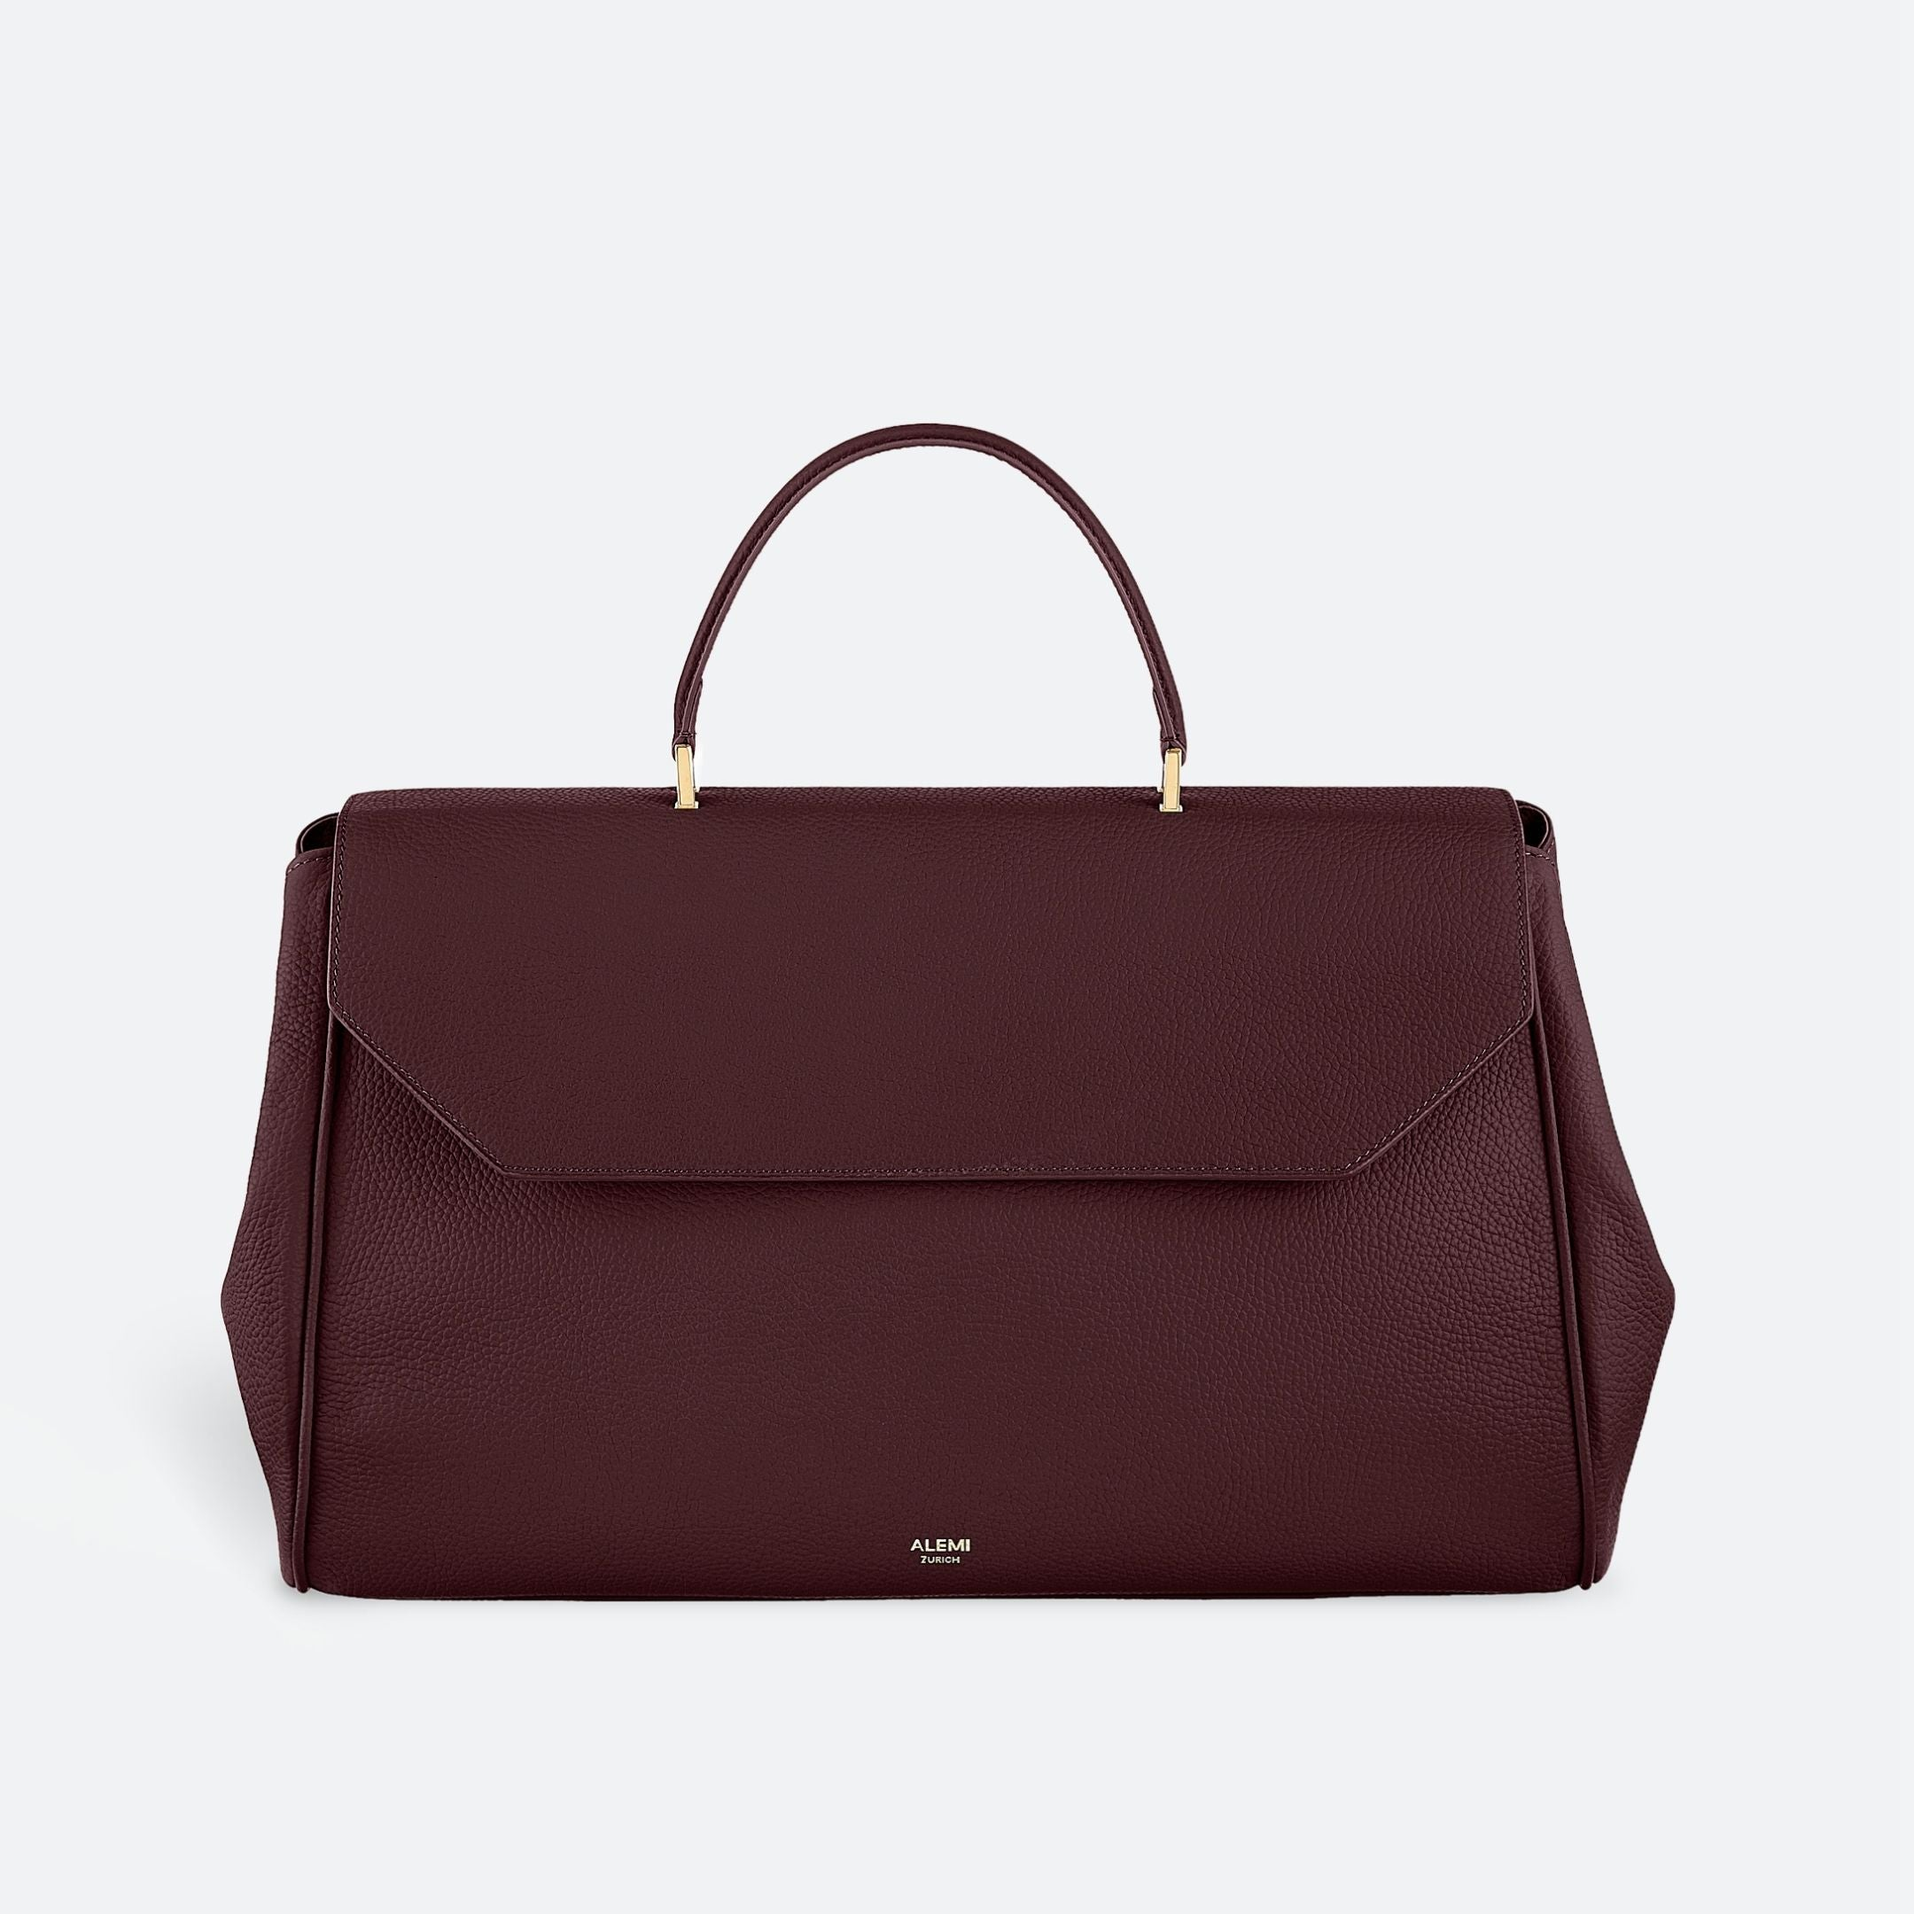
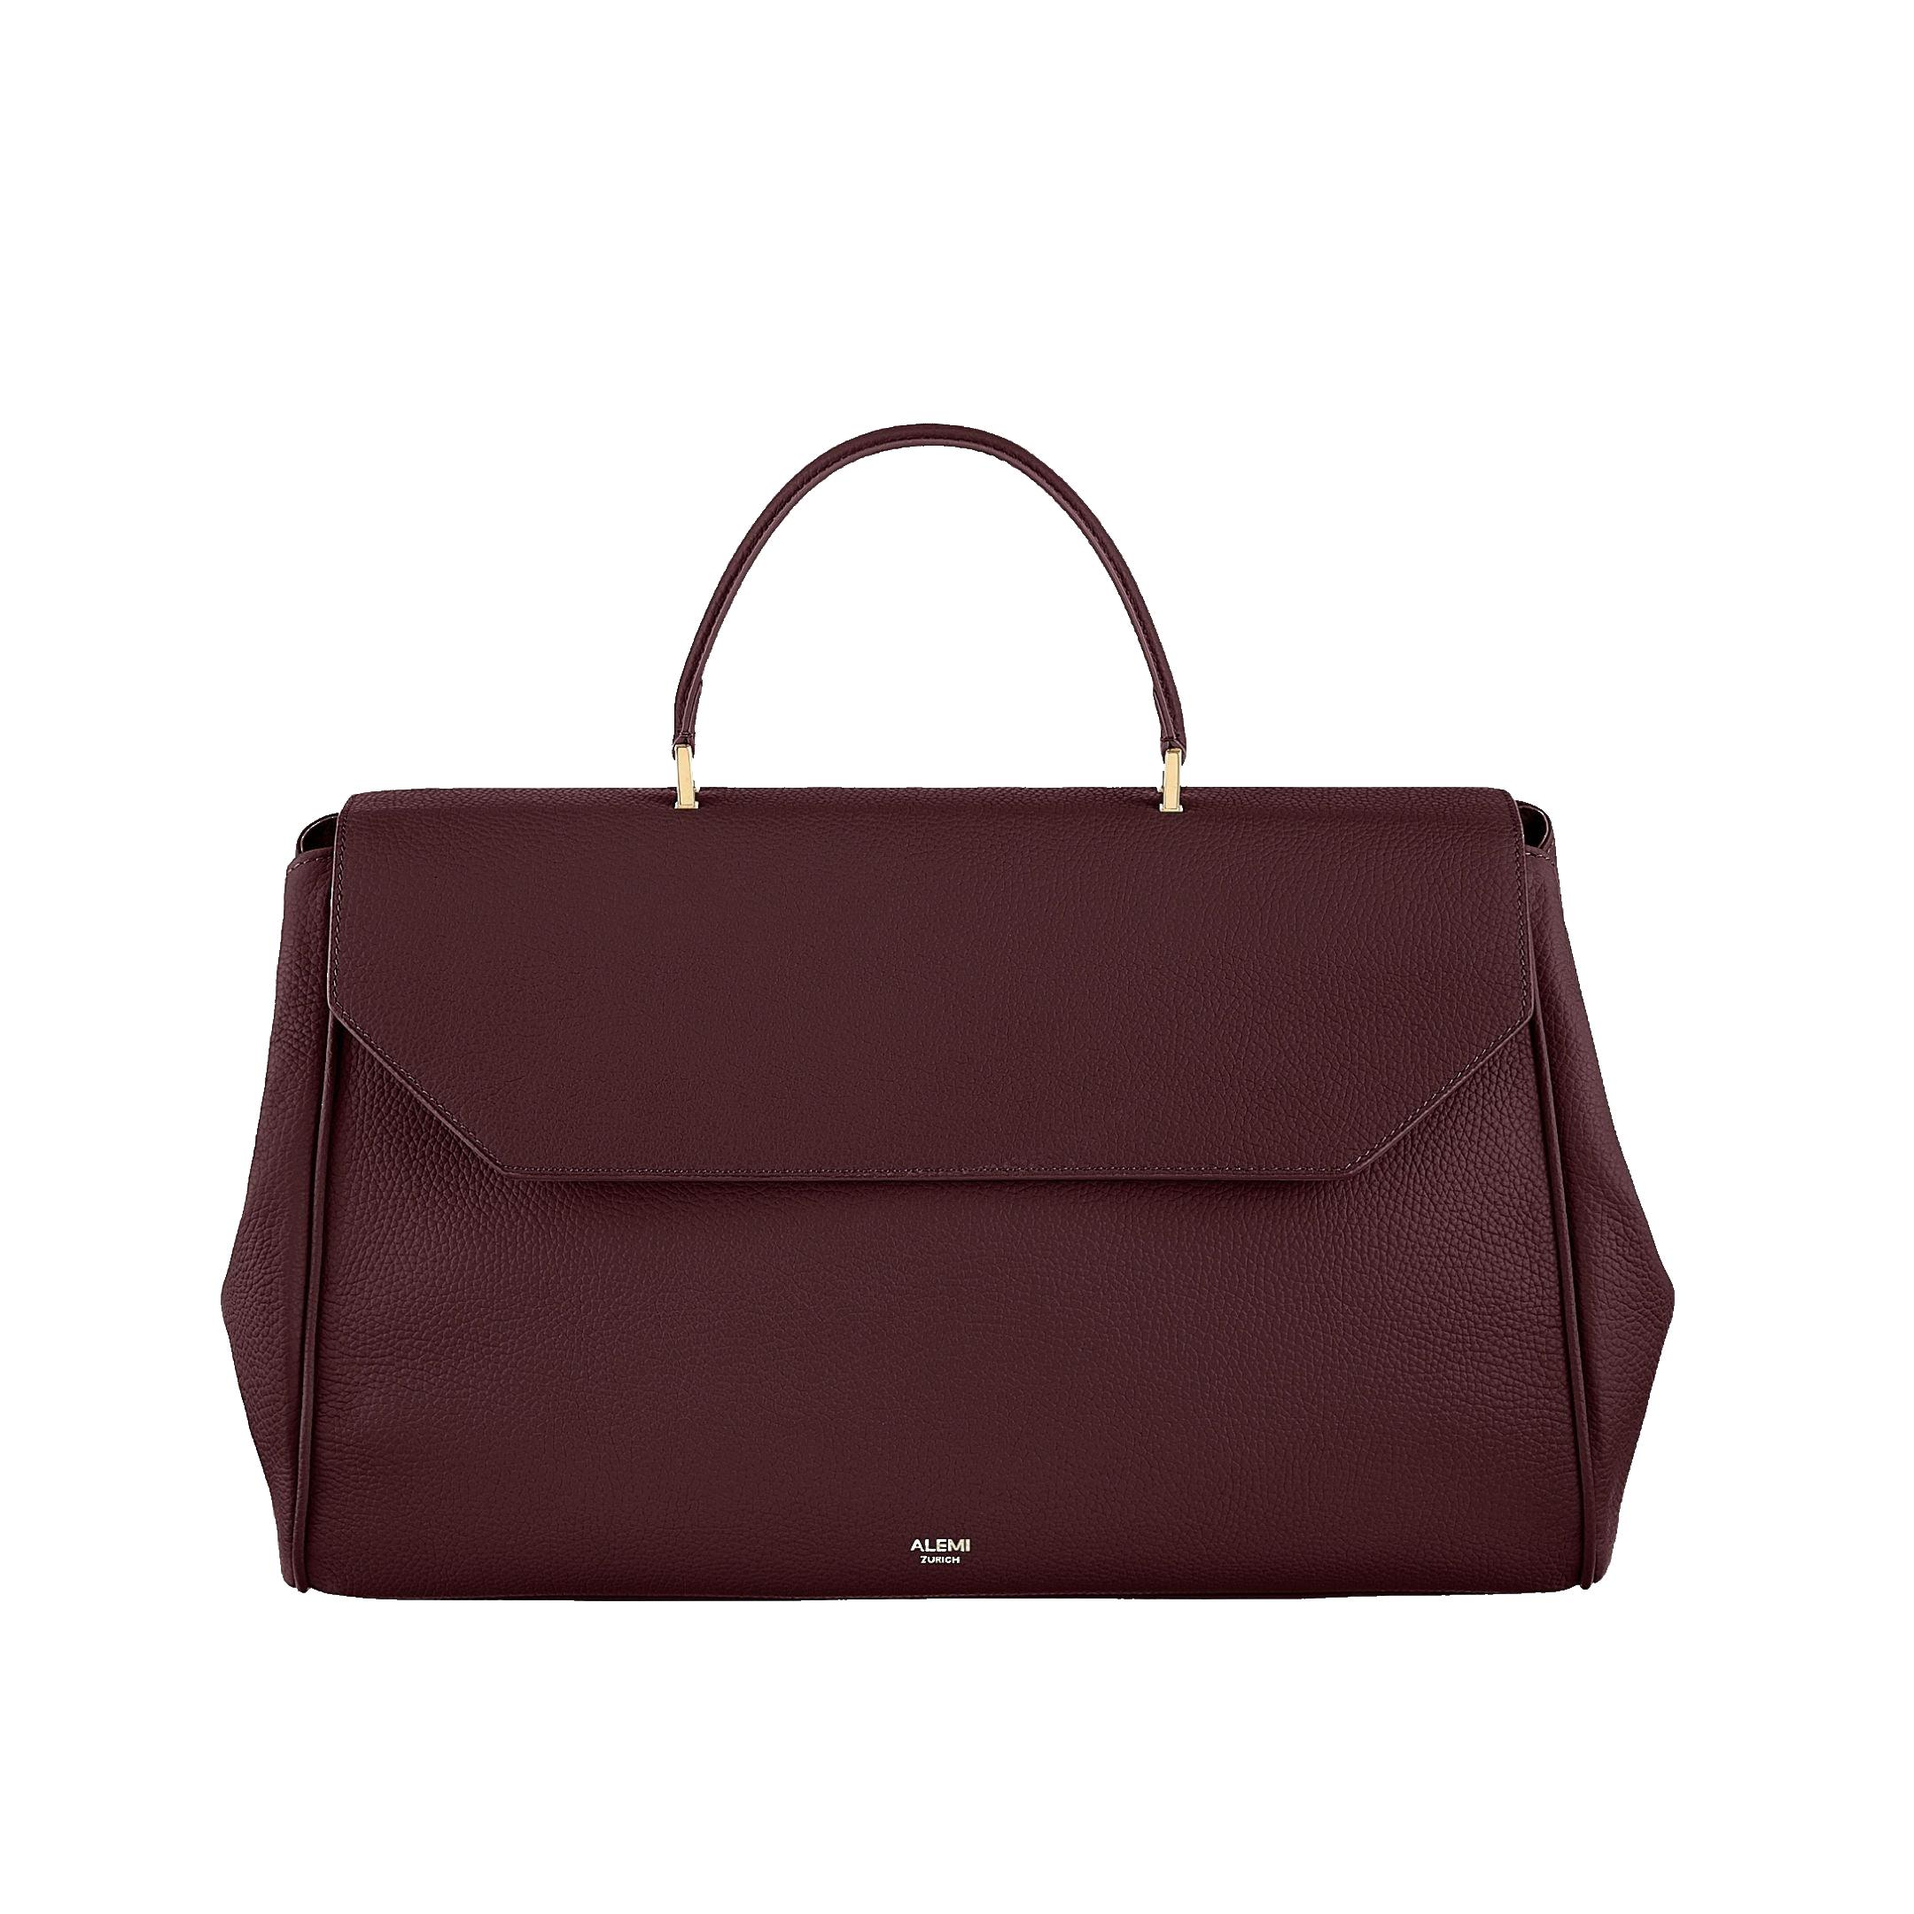
Whiten Finished Bags 03 image background

Changed region(s): [[0.0931, 0.7134, 0.2171, 0.8685], [0.7134, 0.8065, 0.8375, 0.8375], [0.4653, 0.8065, 0.4963, 0.8375]]

diff --git a/2026-06-26_filter-simple-consult-icon-preview/index.html b/2026-06-26_filter-simple-consult-icon-preview/index.html
@@ -166,7 +166,7 @@
   <div class="container footer-bottom"><div class="aurora-footer-payments" aria-label="Payment methods"><strong data-payment-title>Payment Methods</strong><div class="aurora-footer-payments__badges"><span>PayPal</span><span>VISA</span></div><p data-payment-note>Available payment options depend on the final quotation and order confirmation.</p></div><div class="copyright"><span>&copy; 2026 AOLOLA.</span><span class="footer-meta"><a href="terms-of-service.html">Terms of Service</a><span aria-hidden="true">/</span><a href="privacy-policy.html">Privacy Policy</a></span></div></div>
 </footer>
     <a class="aurora-whatsapp-button" href="https://wa.me/8613500014739?text=Hello%20AOLOLA%2C%20I%E2%80%99m%20interested%20in%20your%20bag%20hardware%20%2F%20leather%20%2F%20zipper%20products.%20I%20would%20like%20to%20ask%20for%20more%20details." target="_blank" rel="noopener" aria-label="Chat with AOLOLA on WhatsApp" title="Chat with us on WhatsApp"><span class="aurora-whatsapp-button__icon" aria-hidden="true">W</span><span class="aurora-whatsapp-button__text"><strong data-whatsapp-label>Chat on WhatsApp</strong><span data-whatsapp-tip>Need help?</span></span></a>
-    <script src="assets/js/aurora-commerce.js?v=20260815-new-carousel-v1"></script>
+    <script src="assets/js/aurora-commerce.js?v=20260816-bag3-white-v1"></script>
     <script src="assets/js/aurora-image-search.js?v=20260812-aolola-v1"></script>
   </body>
 </html>

diff --git a/2026-06-26_filter-simple-consult-icon-preview/assets/js/aurora-commerce.js b/2026-06-26_filter-simple-consult-icon-preview/assets/js/aurora-commerce.js
@@ -1985,7 +1985,8 @@ function auroraAssetBase() {
 }
 
 function imagePath(category, index) {
-  return `${auroraAssetBase()}/catalog/${category}/${category} (${index}).jpg`;
+  const path = `${auroraAssetBase()}/catalog/${category}/${category} (${index}).jpg`;
+  return category === "Bag" && Number(index) === 3 ? `${path}?v=20260816-bag3-white` : path;
 }
 
 function categoryThumbnailPath(category) {

diff --git a/2026-06-26_filter-simple-consult-icon-preview/wordpress-theme/aurora-bag-supply/assets/js/aurora-commerce.js b/2026-06-26_filter-simple-consult-icon-preview/wordpress-theme/aurora-bag-supply/assets/js/aurora-commerce.js
@@ -2008,7 +2008,8 @@ function auroraAssetBase() {
 }
 
 function imagePath(category, index) {
-  return `${auroraAssetBase()}/catalog/${category}/${category} (${index}).jpg`;
+  const path = `${auroraAssetBase()}/catalog/${category}/${category} (${index}).jpg`;
+  return category === "Bag" && Number(index) === 3 ? `${path}?v=20260816-bag3-white` : path;
 }
 
 function categoryThumbnailPath(category) {

diff --git a/2026-06-26_filter-simple-consult-icon-preview/wordpress-theme/aurora-bag-supply/functions.php b/2026-06-26_filter-simple-consult-icon-preview/wordpress-theme/aurora-bag-supply/functions.php
@@ -27,7 +27,7 @@ function aurora_assets() {
     wp_enqueue_style('aurora-commerce', get_template_directory_uri() . '/assets/css/aurora-commerce.css', array(), '1.0.104-product-first-order');
     wp_enqueue_style('aurora-category-clean-float', get_template_directory_uri() . '/assets/css/aurora-category-clean-float.css', array('aurora-commerce'), '1.0.104-product-first-order');
     wp_enqueue_style('aurora-mobile-v2-final', get_template_directory_uri() . '/assets/css/aurora-mobile-v2-final.css', array('aurora-category-clean-float'), '1.0.113-pure-white-featured-images');
-    wp_enqueue_script('aurora-commerce', get_template_directory_uri() . '/assets/js/aurora-commerce.js', array(), '1.0.106-new-carousel', true);
+    wp_enqueue_script('aurora-commerce', get_template_directory_uri() . '/assets/js/aurora-commerce.js', array(), '1.0.107-bag3-white', true);
     wp_enqueue_script('aurora-image-search', get_template_directory_uri() . '/assets/js/aurora-image-search.js', array('aurora-commerce'), '1.0.104-product-first-order', true);
     if (aurora_is_materials_craftsmanship_request() || is_page('materials-craftsmanship')) {
         wp_enqueue_style('aolola-materials-craftsmanship', get_template_directory_uri() . '/assets/css/aolola-materials-craftsmanship.css', array('aurora-mobile-v2-final'), '1.0.0-layout-preview');

diff --git a/2026-06-26_filter-simple-consult-icon-preview/MOBILE_BAG3_WHITE_BACKGROUND_UPDATE_2026-08-16.md b/2026-06-26_filter-simple-consult-icon-preview/MOBILE_BAG3_WHITE_BACKGROUND_UPDATE_2026-08-16.md
@@ -1,0 +1,20 @@
+# Mobile Bag 03 White Background Update
+
+Date: 2026-08-16
+
+## Scope
+
+- Finished Bags 03 product image only.
+- Desktop layout, product data, links, and functionality are unchanged.
+
+## Change
+
+- Replaced the embedded light-gray background in `assets/catalog/Bag/Bag (3).jpg` with pure white.
+- Mirrored the same asset into the WordPress theme.
+- Added a targeted cache-busting query for Bag 03 so mobile browsers load the updated image.
+
+## Validation
+
+- Confirmed the processed image remains 2160 x 2160.
+- Confirmed all four image corners are `#FFFFFF`.
+- Confirmed the product remains centered and visually unchanged.
